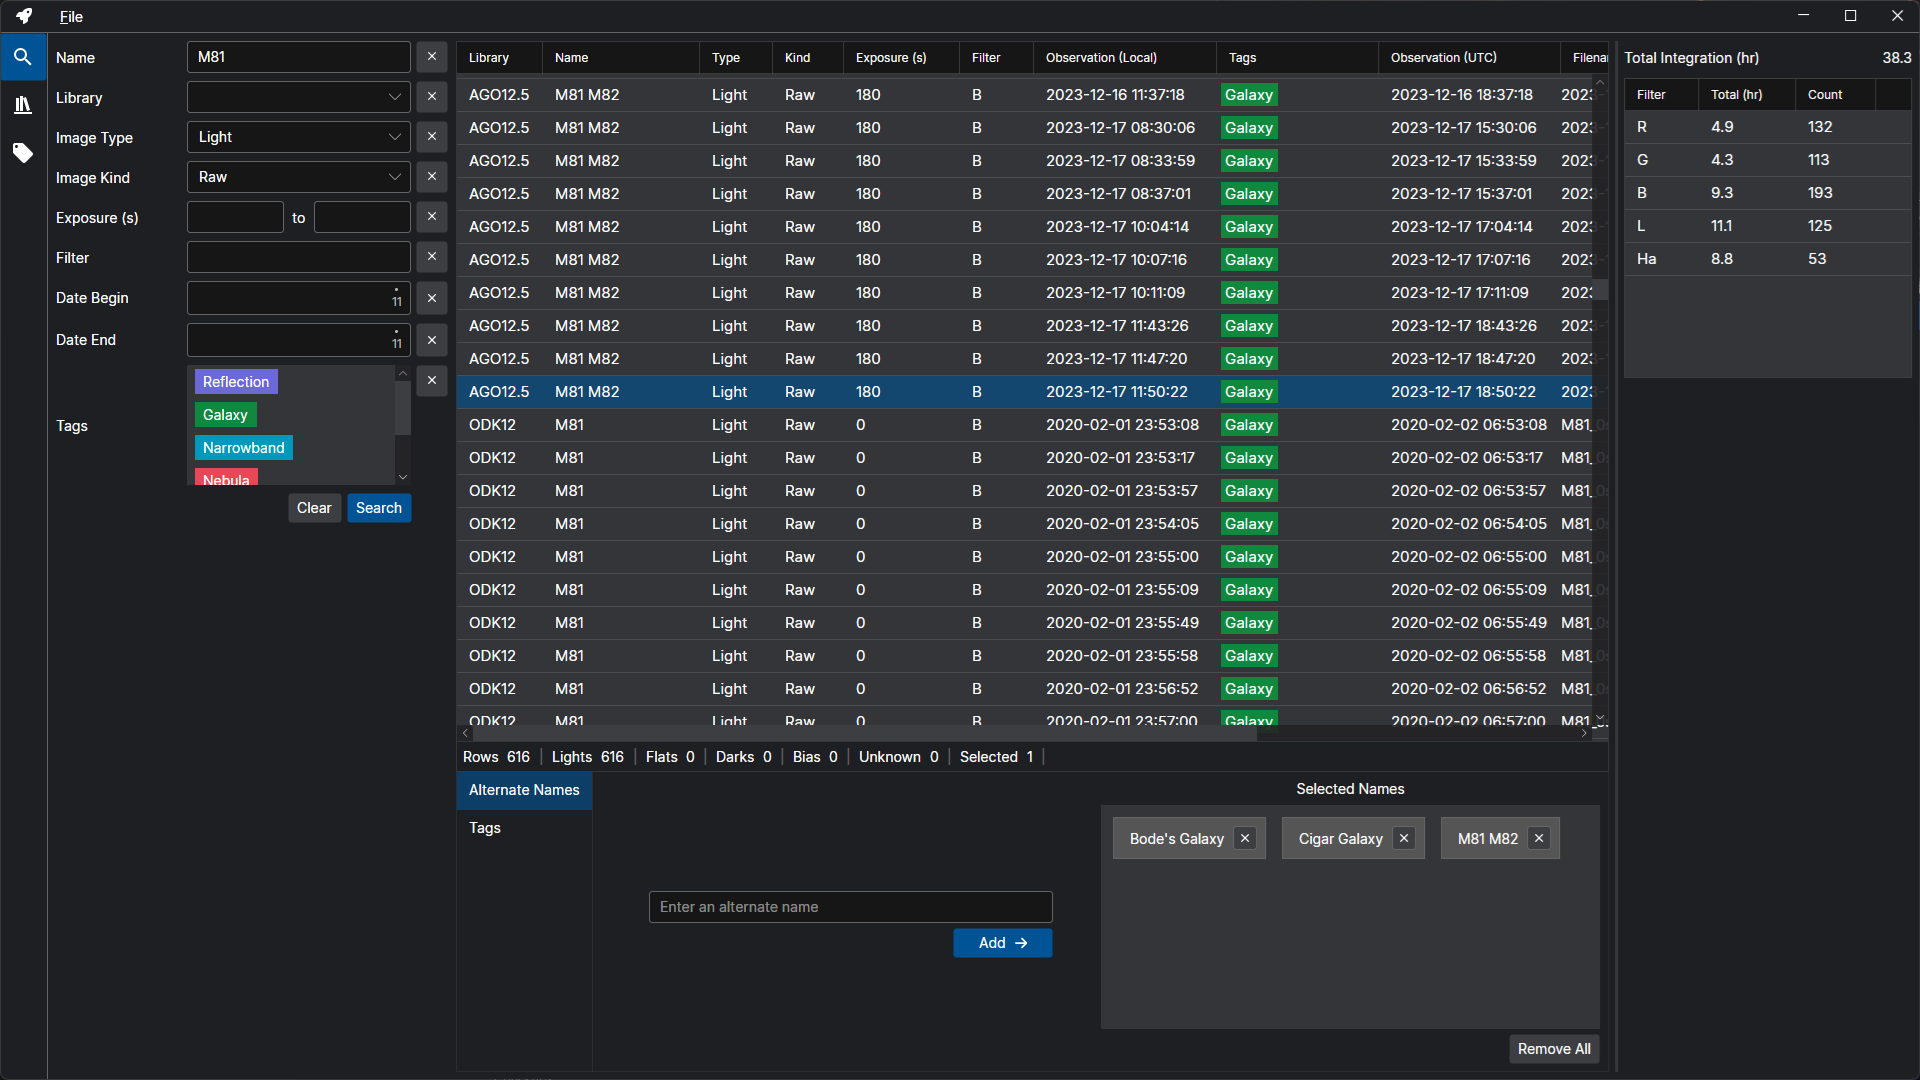
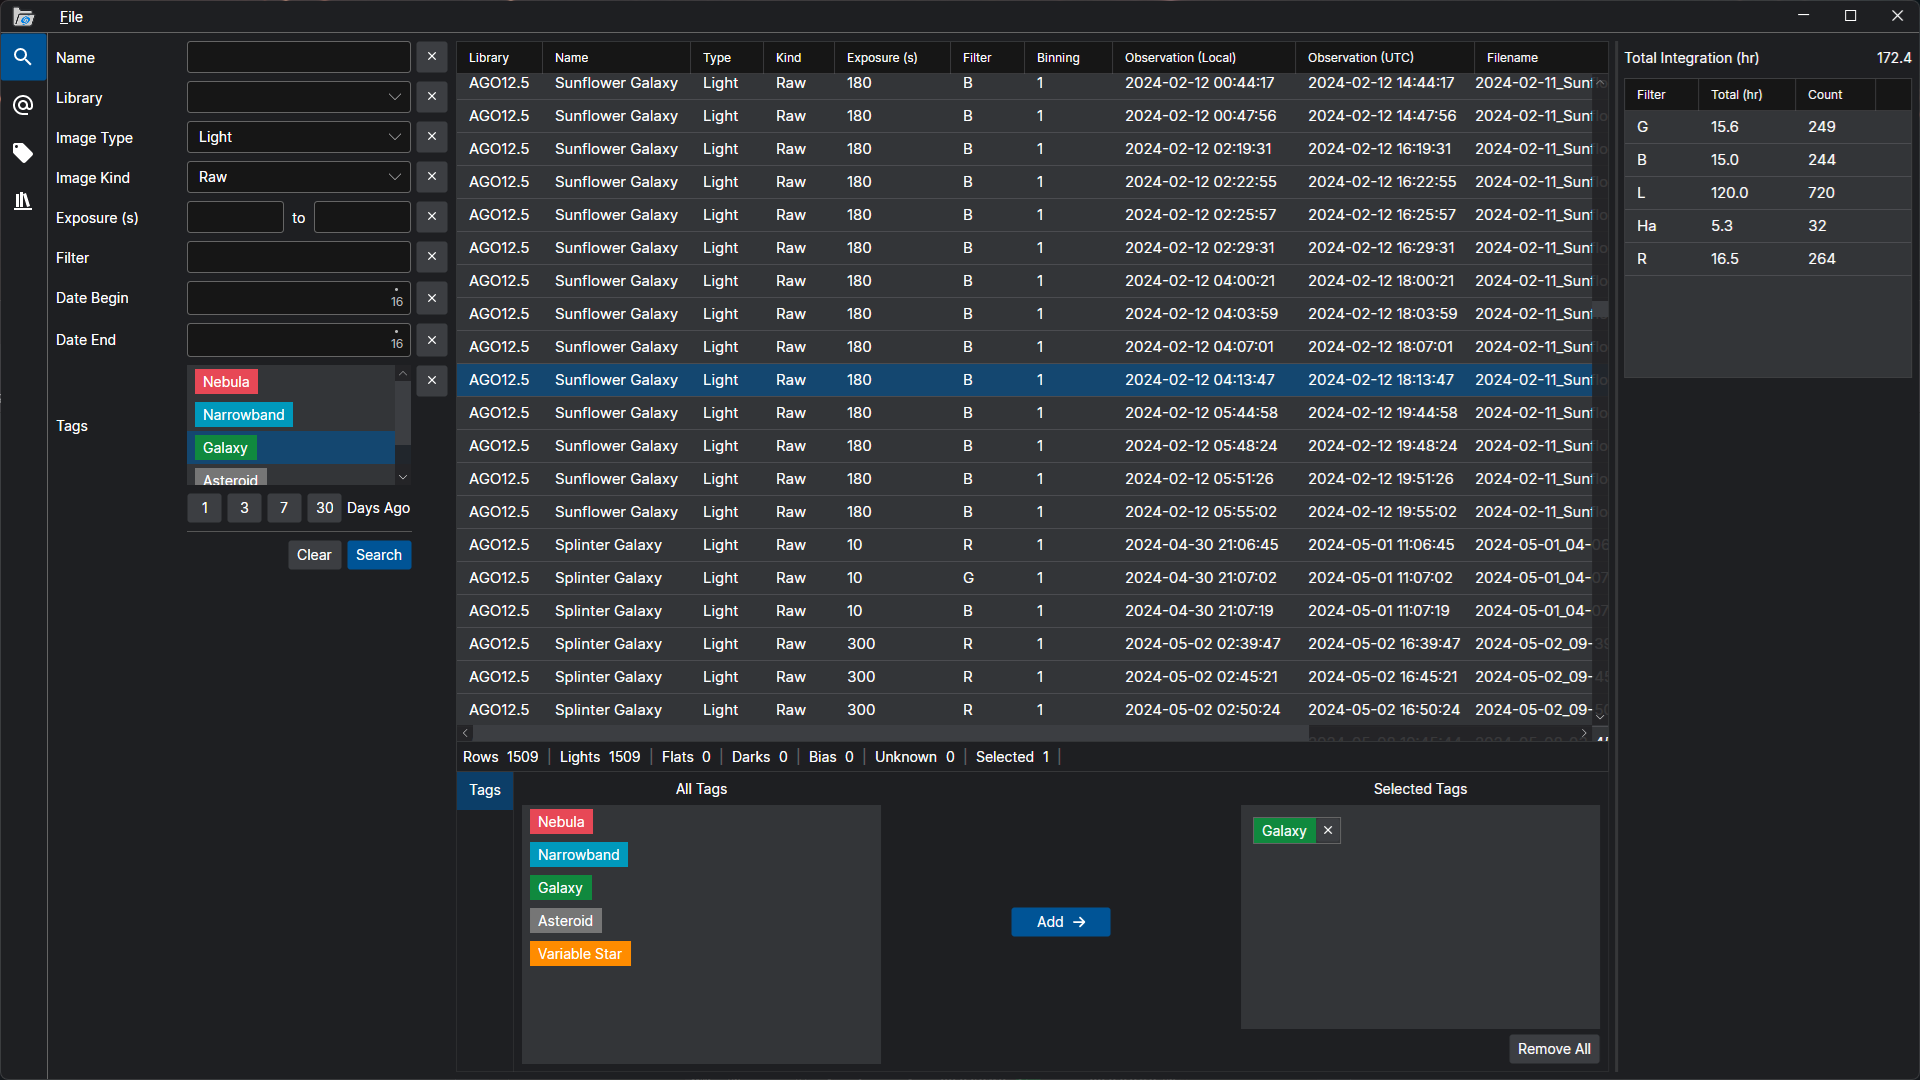
Update screenshots and readme

diff --git a/README.md b/README.md
@@ -2,6 +2,9 @@
 
 Organize your astrophotography library.
 
+Lumidex scans folders with your image files, reads the headers, and builds a database.
+Data is never altered in any way.
+
 > [!WARNING]
 > Lumidex is very early in development and unstable.
 > For the time being you must build Lumidex to use it.
@@ -11,7 +14,7 @@ Organize your astrophotography library.
 - .FITS and .XISF files
 - Multiple libraries
 - Search -> Search your library to find the images you're looking for
-- Alternate Names -> Assign multiple names to the same image
+- Aliases -> Assign multiple names to object names from the headers
 - Tags -> Group your images with tags
 - Quick Scan -> only scan files added since the last scan
 - Statistics -> See your total integration time and breakdown by filter
@@ -20,6 +23,8 @@ Organize your astrophotography library.
 
 ![Search](/assets/lumidex_search.png?raw=true "Search")
 
-![Library](/assets/lumidex_library.png?raw=true "Library")
+![Alias](/assets/lumidex_alias.png?raw=true "Aliases")
 
 ![Tags](/assets/lumidex_tags.png?raw=true "Tags")
+
+![Library](/assets/lumidex_library.png?raw=true "Library")
